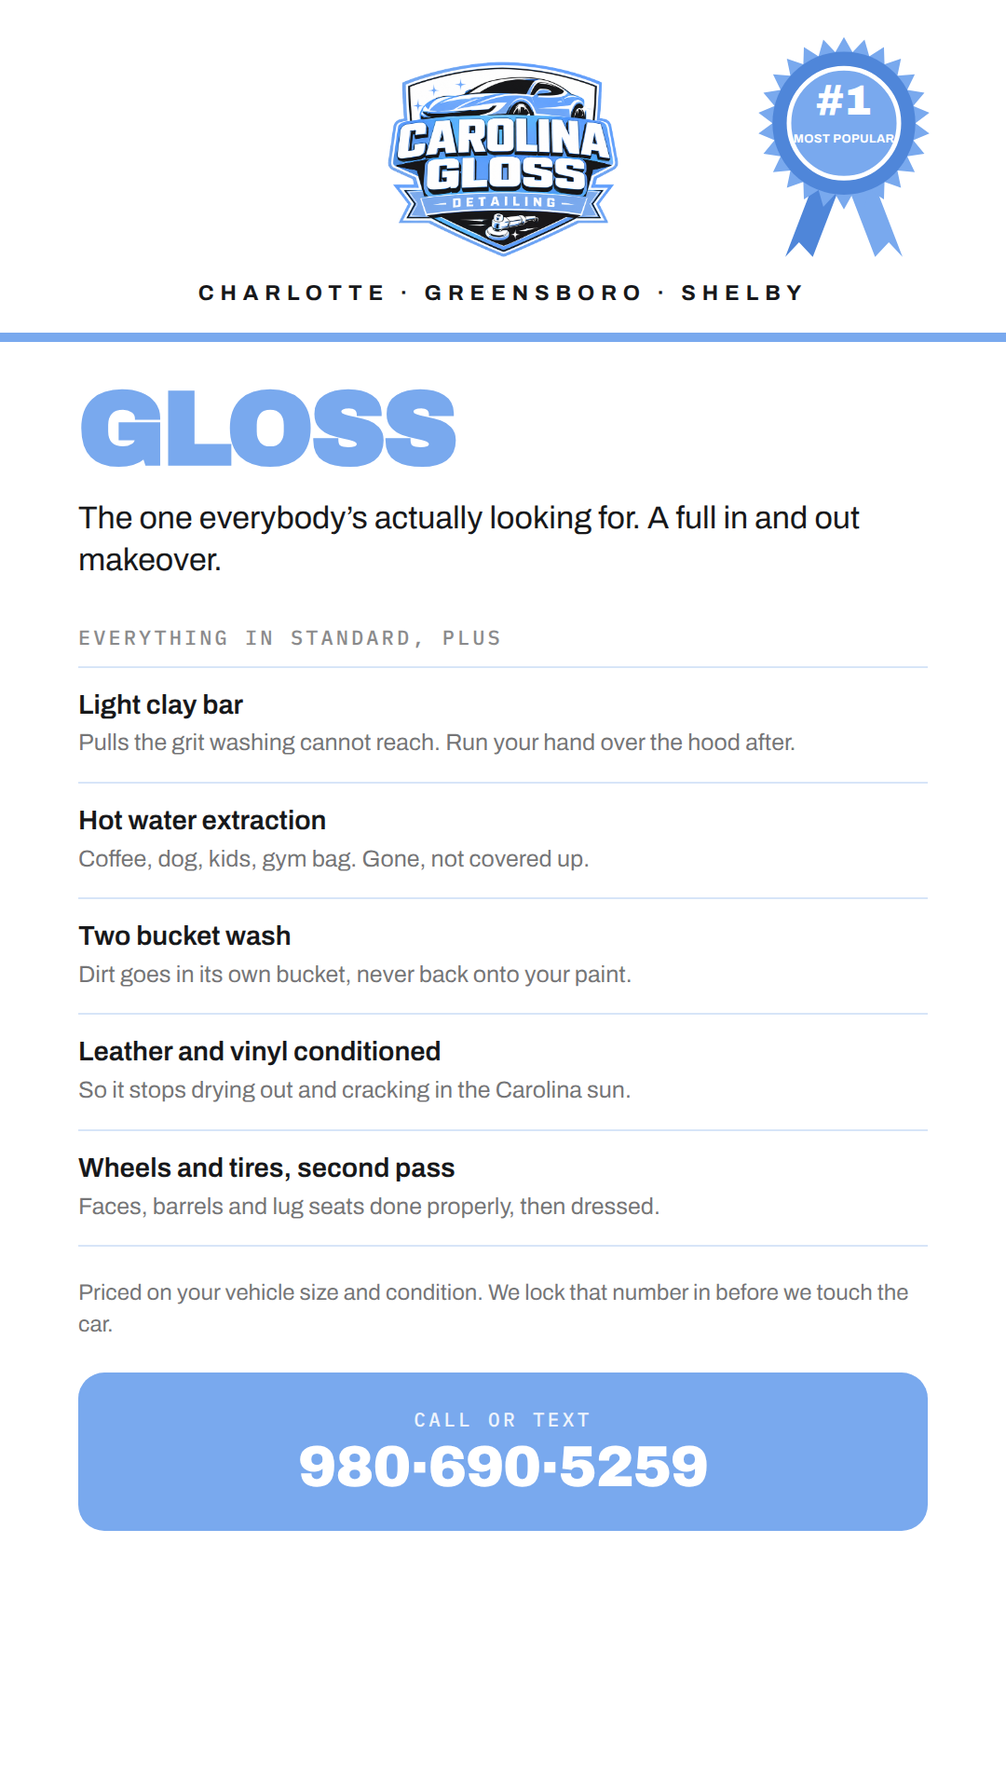
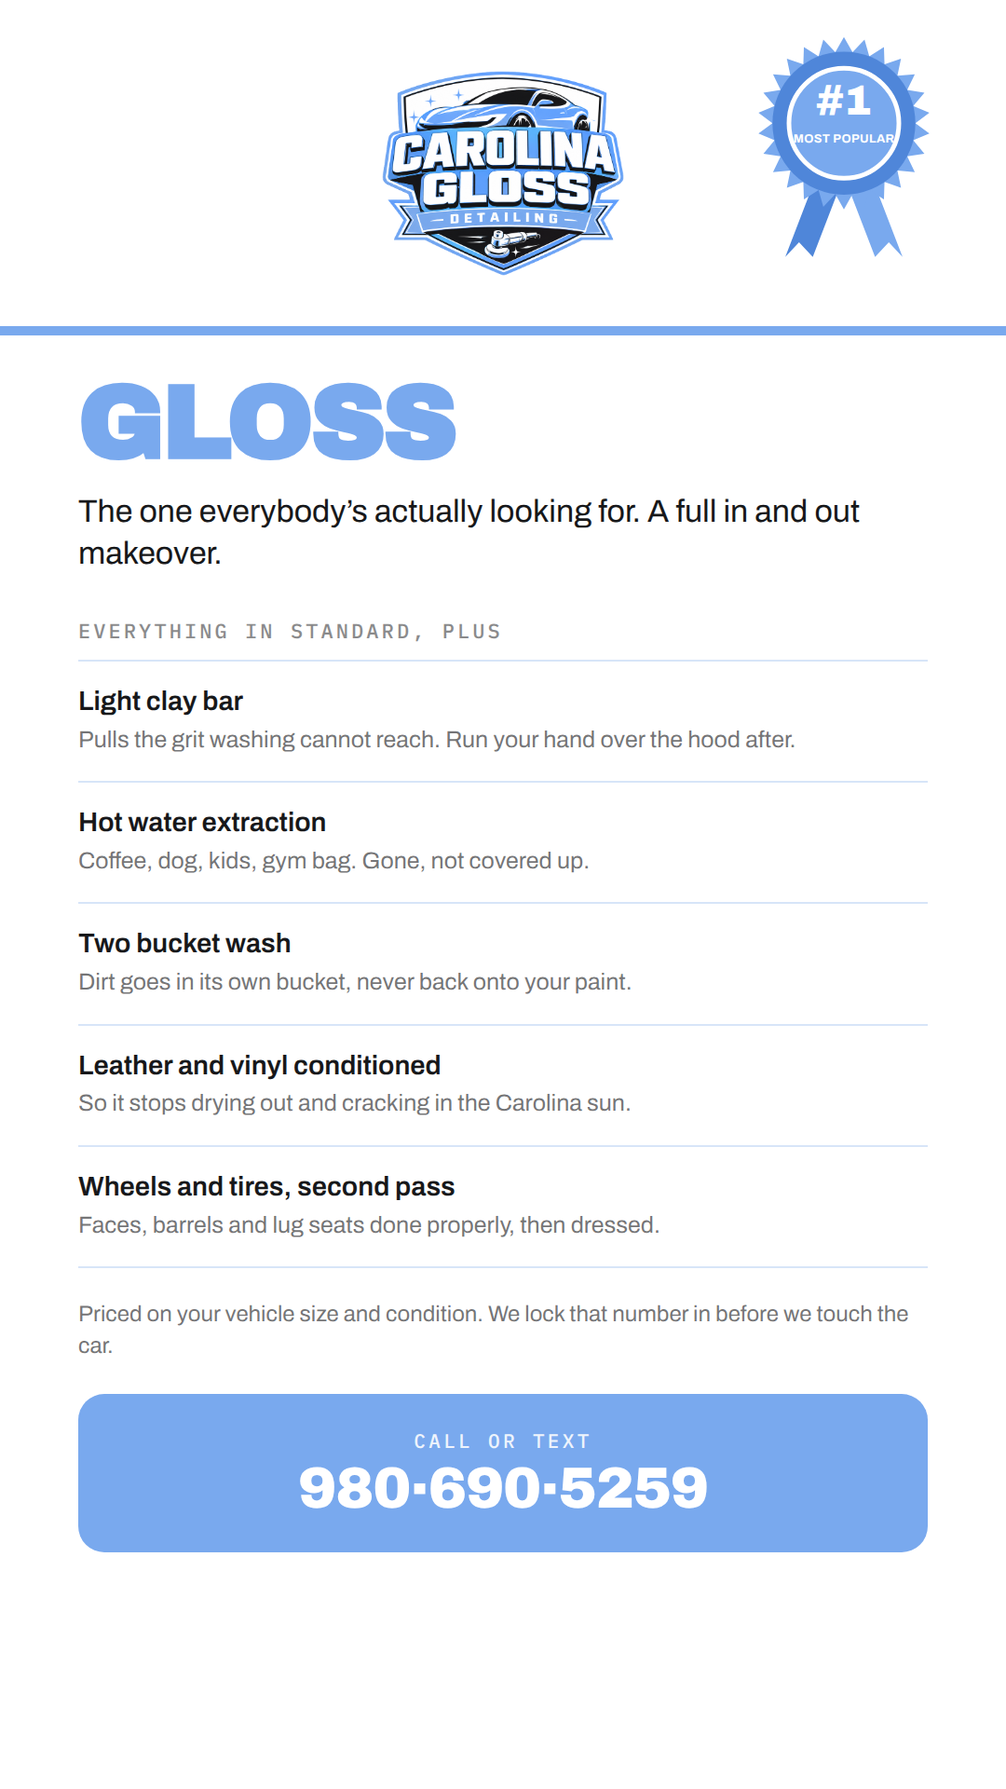
Drop the service area line from the header
Service area is getting its own highlight, so repeating the three cities on
every package frame is redundant. Header is now just the crest and the blue
bar, with the logo slightly larger and the row padding opened up to take back
the freed space.

Claude-Session: https://claude.ai/code/session_016b3V5EjCTmSZMCSHy3XdSF

Changed region(s): [[0.0, 0.0312, 1.0, 0.875]]

diff --git a/design/story-highlights/Story Highlights - Services.dc.html b/design/story-highlights/Story Highlights - Services.dc.html
@@ -25,16 +25,15 @@
       <div style="font:500 30px 'IBM Plex Mono',monospace;color:#8A95A2;letter-spacing:0.04em;">01 Standard</div>
     </sc-if>
     <section data-screen-label="01 Standard" style="width:1080px;height:1920px;flex:0 0 auto;position:relative;overflow:hidden;background:#FFFFFF;display:flex;flex-direction:column;">
-      <div style="flex:0 0 auto;padding:64px 84px 30px;display:flex;flex-direction:column;align-items:center;">
-        <img src="assets/logo.png" alt="Carolina Gloss Detailing" style="width:252px;height:auto;display:block;">
-        <div style="margin-top:24px;font:700 23px 'Archivo',sans-serif;letter-spacing:0.3em;color:#17181A;">CHARLOTTE · GREENSBORO · SHELBY</div>
+      <div style="flex:0 0 auto;padding:74px 84px 52px;display:flex;flex-direction:column;align-items:center;">
+        <img src="assets/logo.png" alt="Carolina Gloss Detailing" style="width:264px;height:auto;display:block;">
       </div>
       <div style="flex:0 0 auto;height:10px;background:#79A9EE;"></div>
       <div style="flex:1 1 auto;padding:44px 84px 0;box-sizing:border-box;display:flex;flex-direction:column;">
         <h1 style="margin:0;font-family:'Archivo Black',Helvetica,sans-serif;font-size:112px;line-height:0.9;letter-spacing:-0.03em;color:#79A9EE;text-transform:uppercase;">Standard</h1>
         <p style="margin:22px 0 0;font:400 34px/1.34 'Archivo',sans-serif;color:#17181A;min-height:92px;text-wrap:pretty;">Your everyday fresh. Start the day in a clean car.</p>
         <div style="margin-top:44px;font:500 22px 'IBM Plex Mono',monospace;letter-spacing:0.14em;color:#17181A;opacity:0.5;">WHAT YOU GET</div>
-        <div style="margin-top:16px;"><div style="padding:24px 0;border-top:2px solid #D7E5F8;"><div style="font:600 29px/1.2 'Archivo',sans-serif;color:#17181A;">Hand wash, top to bottom</div><div style="margin-top:6px;font:400 25px/1.34 'Archivo',sans-serif;color:rgba(23,24,26,0.62);">Two mitts and clean water. No brushes, no swirl marks.</div></div><div style="padding:24px 0;border-top:2px solid #D7E5F8;"><div style="font:600 29px/1.2 'Archivo',sans-serif;color:#17181A;">Wheels, tires and trim</div><div style="margin-top:6px;font:400 25px/1.34 'Archivo',sans-serif;color:rgba(23,24,26,0.62);">Brake dust out of the barrels, trim back to black.</div></div><div style="padding:24px 0;border-top:2px solid #D7E5F8;"><div style="font:600 29px/1.2 'Archivo',sans-serif;color:#17181A;">Full interior vacuum</div><div style="margin-top:6px;font:400 25px/1.34 'Archivo',sans-serif;color:rgba(23,24,26,0.62);">Seats, rails, under the mats, and the trunk.</div></div><div style="padding:24px 0;border-top:2px solid #D7E5F8;"><div style="font:600 29px/1.2 'Archivo',sans-serif;color:#17181A;">Glass, inside and out</div><div style="margin-top:6px;font:400 25px/1.34 'Archivo',sans-serif;color:rgba(23,24,26,0.62);">Streak free on both sides. You notice it driving at night.</div></div><div style="padding:24px 0;border-top:2px solid #D7E5F8;border-bottom:2px solid #D7E5F8;"><div style="font:600 29px/1.2 'Archivo',sans-serif;color:#17181A;">Vinyl sanitized, leather refreshed</div><div style="margin-top:6px;font:400 25px/1.34 'Archivo',sans-serif;color:rgba(23,24,26,0.62);">Dash, doors, console and every vent wiped down.</div></div></div>
+        <div style="margin-top:16px;"><div style="padding:27px 0;border-top:2px solid #D7E5F8;"><div style="font:600 29px/1.2 'Archivo',sans-serif;color:#17181A;">Hand wash, top to bottom</div><div style="margin-top:6px;font:400 25px/1.34 'Archivo',sans-serif;color:rgba(23,24,26,0.62);">Two mitts and clean water. No brushes, no swirl marks.</div></div><div style="padding:27px 0;border-top:2px solid #D7E5F8;"><div style="font:600 29px/1.2 'Archivo',sans-serif;color:#17181A;">Wheels, tires and trim</div><div style="margin-top:6px;font:400 25px/1.34 'Archivo',sans-serif;color:rgba(23,24,26,0.62);">Brake dust out of the barrels, trim back to black.</div></div><div style="padding:27px 0;border-top:2px solid #D7E5F8;"><div style="font:600 29px/1.2 'Archivo',sans-serif;color:#17181A;">Full interior vacuum</div><div style="margin-top:6px;font:400 25px/1.34 'Archivo',sans-serif;color:rgba(23,24,26,0.62);">Seats, rails, under the mats, and the trunk.</div></div><div style="padding:27px 0;border-top:2px solid #D7E5F8;"><div style="font:600 29px/1.2 'Archivo',sans-serif;color:#17181A;">Glass, inside and out</div><div style="margin-top:6px;font:400 25px/1.34 'Archivo',sans-serif;color:rgba(23,24,26,0.62);">Streak free on both sides. You notice it driving at night.</div></div><div style="padding:27px 0;border-top:2px solid #D7E5F8;border-bottom:2px solid #D7E5F8;"><div style="font:600 29px/1.2 'Archivo',sans-serif;color:#17181A;">Vinyl sanitized, leather refreshed</div><div style="margin-top:6px;font:400 25px/1.34 'Archivo',sans-serif;color:rgba(23,24,26,0.62);">Dash, doors, console and every vent wiped down.</div></div></div>
         <p style="margin:34px 0 0;font:400 24px/1.4 'Archivo',sans-serif;color:rgba(23,24,26,0.62);text-wrap:pretty;">Priced on your vehicle size and condition. We lock that number in before we touch the car.</p>
         <div style="margin-top:34px;background:#79A9EE;border-radius:28px;padding:36px 28px;display:flex;flex-direction:column;align-items:center;text-align:center;">
           <div style="font:500 21px 'IBM Plex Mono',monospace;letter-spacing:0.16em;color:#FFFFFF;opacity:0.88;">CALL OR TEXT</div>
@@ -49,16 +48,15 @@
       <div style="font:500 30px 'IBM Plex Mono',monospace;color:#8A95A2;letter-spacing:0.04em;">02 Gloss</div>
     </sc-if>
     <section data-screen-label="02 Gloss" style="width:1080px;height:1920px;flex:0 0 auto;position:relative;overflow:hidden;background:#FFFFFF;display:flex;flex-direction:column;"><svg style="position:absolute;top:26px;right:56px;width:236px;height:auto;display:block;" viewBox="0 0 240 262" aria-label="Number one most popular"><path d="M96 150 L126 150 L86 254 L71 238 L56 254 Z" fill="#4F86D9"/><path d="M144 150 L114 150 L154 254 L169 238 L184 254 Z" fill="#79A9EE"/><polygon points="120.0,14.0 129.4,30.6 142.5,16.7 147.7,35.1 163.7,24.8 164.3,43.8 182.3,37.6 178.4,56.3 197.4,54.6 189.1,71.8 207.9,74.7 195.7,89.3 213.3,96.7 198.0,108.0 213.3,119.3 195.7,126.7 207.9,141.3 189.1,144.2 197.4,161.4 178.4,159.7 182.3,178.4 164.3,172.2 163.7,191.2 147.7,180.9 142.5,199.3 129.4,185.4 120.0,202.0 110.6,185.4 97.5,199.3 92.3,180.9 76.3,191.2 75.7,172.2 57.7,178.4 61.6,159.7 42.6,161.4 50.9,144.2 32.1,141.3 44.3,126.7 26.7,119.3 42.0,108.0 26.7,96.7 44.3,89.3 32.1,74.7 50.9,71.8 42.6,54.6 61.6,56.3 57.7,37.6 75.7,43.8 76.3,24.8 92.3,35.1 97.5,16.7 110.6,30.6" fill="#79A9EE"/><circle cx="120" cy="108" r="78" fill="#4F86D9"/><circle cx="120" cy="108" r="60" fill="#79A9EE" stroke="#FFFFFF" stroke-width="5"/><text x="120" y="99" text-anchor="middle" fill="#FFFFFF" font-family="Archivo Black, Helvetica, sans-serif" font-size="46">#1</text><text x="120" y="129" text-anchor="middle" fill="#FFFFFF" font-family="Archivo, Helvetica, sans-serif" font-weight="700" font-size="13" letter-spacing="0.4">MOST POPULAR</text></svg>
-      <div style="flex:0 0 auto;padding:64px 84px 30px;display:flex;flex-direction:column;align-items:center;">
-        <img src="assets/logo.png" alt="Carolina Gloss Detailing" style="width:252px;height:auto;display:block;">
-        <div style="margin-top:24px;font:700 23px 'Archivo',sans-serif;letter-spacing:0.3em;color:#17181A;">CHARLOTTE · GREENSBORO · SHELBY</div>
+      <div style="flex:0 0 auto;padding:74px 84px 52px;display:flex;flex-direction:column;align-items:center;">
+        <img src="assets/logo.png" alt="Carolina Gloss Detailing" style="width:264px;height:auto;display:block;">
       </div>
       <div style="flex:0 0 auto;height:10px;background:#79A9EE;"></div>
       <div style="flex:1 1 auto;padding:44px 84px 0;box-sizing:border-box;display:flex;flex-direction:column;">
         <h1 style="margin:0;font-family:'Archivo Black',Helvetica,sans-serif;font-size:112px;line-height:0.9;letter-spacing:-0.03em;color:#79A9EE;text-transform:uppercase;">Gloss</h1>
         <p style="margin:22px 0 0;font:400 34px/1.34 'Archivo',sans-serif;color:#17181A;min-height:92px;text-wrap:pretty;">The one everybody’s actually looking for. A full in and out makeover.</p>
         <div style="margin-top:44px;font:500 22px 'IBM Plex Mono',monospace;letter-spacing:0.14em;color:#17181A;opacity:0.5;">EVERYTHING IN STANDARD, PLUS</div>
-        <div style="margin-top:16px;"><div style="padding:24px 0;border-top:2px solid #D7E5F8;"><div style="font:600 29px/1.2 'Archivo',sans-serif;color:#17181A;">Light clay bar</div><div style="margin-top:6px;font:400 25px/1.34 'Archivo',sans-serif;color:rgba(23,24,26,0.62);">Pulls the grit washing cannot reach. Run your hand over the hood after.</div></div><div style="padding:24px 0;border-top:2px solid #D7E5F8;"><div style="font:600 29px/1.2 'Archivo',sans-serif;color:#17181A;">Hot water extraction</div><div style="margin-top:6px;font:400 25px/1.34 'Archivo',sans-serif;color:rgba(23,24,26,0.62);">Coffee, dog, kids, gym bag. Gone, not covered up.</div></div><div style="padding:24px 0;border-top:2px solid #D7E5F8;"><div style="font:600 29px/1.2 'Archivo',sans-serif;color:#17181A;">Two bucket wash</div><div style="margin-top:6px;font:400 25px/1.34 'Archivo',sans-serif;color:rgba(23,24,26,0.62);">Dirt goes in its own bucket, never back onto your paint.</div></div><div style="padding:24px 0;border-top:2px solid #D7E5F8;"><div style="font:600 29px/1.2 'Archivo',sans-serif;color:#17181A;">Leather and vinyl conditioned</div><div style="margin-top:6px;font:400 25px/1.34 'Archivo',sans-serif;color:rgba(23,24,26,0.62);">So it stops drying out and cracking in the Carolina sun.</div></div><div style="padding:24px 0;border-top:2px solid #D7E5F8;border-bottom:2px solid #D7E5F8;"><div style="font:600 29px/1.2 'Archivo',sans-serif;color:#17181A;">Wheels and tires, second pass</div><div style="margin-top:6px;font:400 25px/1.34 'Archivo',sans-serif;color:rgba(23,24,26,0.62);">Faces, barrels and lug seats done properly, then dressed.</div></div></div>
+        <div style="margin-top:16px;"><div style="padding:27px 0;border-top:2px solid #D7E5F8;"><div style="font:600 29px/1.2 'Archivo',sans-serif;color:#17181A;">Light clay bar</div><div style="margin-top:6px;font:400 25px/1.34 'Archivo',sans-serif;color:rgba(23,24,26,0.62);">Pulls the grit washing cannot reach. Run your hand over the hood after.</div></div><div style="padding:27px 0;border-top:2px solid #D7E5F8;"><div style="font:600 29px/1.2 'Archivo',sans-serif;color:#17181A;">Hot water extraction</div><div style="margin-top:6px;font:400 25px/1.34 'Archivo',sans-serif;color:rgba(23,24,26,0.62);">Coffee, dog, kids, gym bag. Gone, not covered up.</div></div><div style="padding:27px 0;border-top:2px solid #D7E5F8;"><div style="font:600 29px/1.2 'Archivo',sans-serif;color:#17181A;">Two bucket wash</div><div style="margin-top:6px;font:400 25px/1.34 'Archivo',sans-serif;color:rgba(23,24,26,0.62);">Dirt goes in its own bucket, never back onto your paint.</div></div><div style="padding:27px 0;border-top:2px solid #D7E5F8;"><div style="font:600 29px/1.2 'Archivo',sans-serif;color:#17181A;">Leather and vinyl conditioned</div><div style="margin-top:6px;font:400 25px/1.34 'Archivo',sans-serif;color:rgba(23,24,26,0.62);">So it stops drying out and cracking in the Carolina sun.</div></div><div style="padding:27px 0;border-top:2px solid #D7E5F8;border-bottom:2px solid #D7E5F8;"><div style="font:600 29px/1.2 'Archivo',sans-serif;color:#17181A;">Wheels and tires, second pass</div><div style="margin-top:6px;font:400 25px/1.34 'Archivo',sans-serif;color:rgba(23,24,26,0.62);">Faces, barrels and lug seats done properly, then dressed.</div></div></div>
         <p style="margin:34px 0 0;font:400 24px/1.4 'Archivo',sans-serif;color:rgba(23,24,26,0.62);text-wrap:pretty;">Priced on your vehicle size and condition. We lock that number in before we touch the car.</p>
         <div style="margin-top:34px;background:#79A9EE;border-radius:28px;padding:36px 28px;display:flex;flex-direction:column;align-items:center;text-align:center;">
           <div style="font:500 21px 'IBM Plex Mono',monospace;letter-spacing:0.16em;color:#FFFFFF;opacity:0.88;">CALL OR TEXT</div>
@@ -73,16 +71,15 @@
       <div style="font:500 30px 'IBM Plex Mono',monospace;color:#8A95A2;letter-spacing:0.04em;">03 Deluxe</div>
     </sc-if>
     <section data-screen-label="03 Deluxe" style="width:1080px;height:1920px;flex:0 0 auto;position:relative;overflow:hidden;background:#FFFFFF;display:flex;flex-direction:column;">
-      <div style="flex:0 0 auto;padding:64px 84px 30px;display:flex;flex-direction:column;align-items:center;">
-        <img src="assets/logo.png" alt="Carolina Gloss Detailing" style="width:252px;height:auto;display:block;">
-        <div style="margin-top:24px;font:700 23px 'Archivo',sans-serif;letter-spacing:0.3em;color:#17181A;">CHARLOTTE · GREENSBORO · SHELBY</div>
+      <div style="flex:0 0 auto;padding:74px 84px 52px;display:flex;flex-direction:column;align-items:center;">
+        <img src="assets/logo.png" alt="Carolina Gloss Detailing" style="width:264px;height:auto;display:block;">
       </div>
       <div style="flex:0 0 auto;height:10px;background:#79A9EE;"></div>
       <div style="flex:1 1 auto;padding:44px 84px 0;box-sizing:border-box;display:flex;flex-direction:column;">
         <h1 style="margin:0;font-family:'Archivo Black',Helvetica,sans-serif;font-size:112px;line-height:0.9;letter-spacing:-0.03em;color:#79A9EE;text-transform:uppercase;">Deluxe</h1>
         <p style="margin:22px 0 0;font:400 34px/1.34 'Archivo',sans-serif;color:#17181A;min-height:92px;text-wrap:pretty;">The final boss. Fresh, sealed, basically a brand new car.</p>
         <div style="margin-top:44px;font:500 22px 'IBM Plex Mono',monospace;letter-spacing:0.14em;color:#17181A;opacity:0.5;">EVERYTHING IN GLOSS, PLUS</div>
-        <div style="margin-top:16px;"><div style="padding:24px 0;border-top:2px solid #D7E5F8;"><div style="font:600 29px/1.2 'Archivo',sans-serif;color:#17181A;">Full clay bar</div><div style="margin-top:6px;font:400 25px/1.34 'Archivo',sans-serif;color:rgba(23,24,26,0.62);">The whole body decontaminated panel by panel, not a spot treatment.</div></div><div style="padding:24px 0;border-top:2px solid #D7E5F8;"><div style="font:600 29px/1.2 'Archivo',sans-serif;color:#17181A;">Chemical strip wash</div><div style="margin-top:6px;font:400 25px/1.34 'Archivo',sans-serif;color:rgba(23,24,26,0.62);">Old wax and road film off so the new protection bonds.</div></div><div style="padding:24px 0;border-top:2px solid #D7E5F8;"><div style="font:600 29px/1.2 'Archivo',sans-serif;color:#17181A;">Ceramic soap</div><div style="margin-top:6px;font:400 25px/1.34 'Archivo',sans-serif;color:rgba(23,24,26,0.62);">Lays down a slick layer. Water sheets straight off your paint.</div></div><div style="padding:24px 0;border-top:2px solid #D7E5F8;"><div style="font:600 29px/1.2 'Archivo',sans-serif;color:#17181A;">Hand wax and spray sealant</div><div style="margin-top:6px;font:400 25px/1.34 'Archivo',sans-serif;color:rgba(23,24,26,0.62);">Months of protection against pollen, sun and road salt.</div></div><div style="padding:24px 0;border-top:2px solid #D7E5F8;border-bottom:2px solid #D7E5F8;"><div style="font:600 29px/1.2 'Archivo',sans-serif;color:#17181A;">Interior shampooed and conditioned</div><div style="margin-top:6px;font:400 25px/1.34 'Archivo',sans-serif;color:rgba(23,24,26,0.62);">Comes back looking like a lease return.</div></div></div>
+        <div style="margin-top:16px;"><div style="padding:27px 0;border-top:2px solid #D7E5F8;"><div style="font:600 29px/1.2 'Archivo',sans-serif;color:#17181A;">Full clay bar</div><div style="margin-top:6px;font:400 25px/1.34 'Archivo',sans-serif;color:rgba(23,24,26,0.62);">The whole body decontaminated panel by panel, not a spot treatment.</div></div><div style="padding:27px 0;border-top:2px solid #D7E5F8;"><div style="font:600 29px/1.2 'Archivo',sans-serif;color:#17181A;">Chemical strip wash</div><div style="margin-top:6px;font:400 25px/1.34 'Archivo',sans-serif;color:rgba(23,24,26,0.62);">Old wax and road film off so the new protection bonds.</div></div><div style="padding:27px 0;border-top:2px solid #D7E5F8;"><div style="font:600 29px/1.2 'Archivo',sans-serif;color:#17181A;">Ceramic soap</div><div style="margin-top:6px;font:400 25px/1.34 'Archivo',sans-serif;color:rgba(23,24,26,0.62);">Lays down a slick layer. Water sheets straight off your paint.</div></div><div style="padding:27px 0;border-top:2px solid #D7E5F8;"><div style="font:600 29px/1.2 'Archivo',sans-serif;color:#17181A;">Hand wax and spray sealant</div><div style="margin-top:6px;font:400 25px/1.34 'Archivo',sans-serif;color:rgba(23,24,26,0.62);">Months of protection against pollen, sun and road salt.</div></div><div style="padding:27px 0;border-top:2px solid #D7E5F8;border-bottom:2px solid #D7E5F8;"><div style="font:600 29px/1.2 'Archivo',sans-serif;color:#17181A;">Interior shampooed and conditioned</div><div style="margin-top:6px;font:400 25px/1.34 'Archivo',sans-serif;color:rgba(23,24,26,0.62);">Comes back looking like a lease return.</div></div></div>
         <p style="margin:34px 0 0;font:400 24px/1.4 'Archivo',sans-serif;color:rgba(23,24,26,0.62);text-wrap:pretty;">Priced on your vehicle size and condition. We lock that number in before we touch the car.</p>
         <div style="margin-top:34px;background:#79A9EE;border-radius:28px;padding:36px 28px;display:flex;flex-direction:column;align-items:center;text-align:center;">
           <div style="font:500 21px 'IBM Plex Mono',monospace;letter-spacing:0.16em;color:#FFFFFF;opacity:0.88;">CALL OR TEXT</div>

diff --git a/design/story-highlights/build.py b/design/story-highlights/build.py
@@ -89,7 +89,7 @@ def font_faces():
 def row_html(title, desc, last):
     edge = "border-bottom:2px solid %s;" % RULE if last else ""
     return (
-        '<div style="padding:24px 0;border-top:2px solid {rule};{edge}">'
+        '<div style="padding:27px 0;border-top:2px solid {rule};{edge}">'
         '<div style="font:600 29px/1.2 Archivo,sans-serif;color:{ink};">{t}</div>'
         '<div style="margin-top:6px;font:400 25px/1.34 Archivo,sans-serif;color:{muted};">{d}</div>'
         '</div>'
@@ -110,11 +110,9 @@ body{{width:1080px;height:1920px;overflow:hidden;background:#fff;
 .frame{{width:1080px;height:1920px;display:flex;flex-direction:column;background:#fff;
  position:relative;overflow:hidden;}}
 .rosette{{position:absolute;top:26px;right:56px;width:236px;height:auto;display:block;}}
-.head{{flex:0 0 auto;padding:64px 84px 30px;display:flex;flex-direction:column;
+.head{{flex:0 0 auto;padding:74px 84px 52px;display:flex;flex-direction:column;
  align-items:center;}}
-.head img{{width:252px;height:auto;display:block;}}
-.head .cities{{margin-top:24px;font:700 23px Archivo,sans-serif;
- letter-spacing:0.3em;color:{ink};}}
+.head img{{width:264px;height:auto;display:block;}}
 .bar{{flex:0 0 auto;height:10px;background:{blue};}}
 .body{{flex:1 1 auto;padding:44px 84px 0;display:flex;flex-direction:column;}}
 h1{{margin:0;font-family:'Archivo Black',Helvetica,sans-serif;font-size:112px;
@@ -131,8 +129,7 @@ h1{{margin:0;font-family:'Archivo Black',Helvetica,sans-serif;font-size:112px;
 .cta .num{{margin-top:8px;font-family:'Archivo Black',Helvetica,sans-serif;font-size:62px;
  line-height:1;letter-spacing:-0.02em;color:#FFFFFF;white-space:nowrap;}}
 </style></head><body><div class="frame">{ribbon}
-<div class="head"><img src="{logo}" alt="Carolina Gloss Detailing">
-<div class="cities">{cities}</div></div>
+<div class="head"><img src="{logo}" alt="Carolina Gloss Detailing"></div>
 <div class="bar"></div>
 <div class="body">
 <h1>{title}</h1>
@@ -143,7 +140,7 @@ h1{{margin:0;font-family:'Archivo Black',Helvetica,sans-serif;font-size:112px;
 <div class="cta"><div class="lbl">CALL OR TEXT</div><div class="num">{phone}</div></div>
 </div></div></body></html>""".format(
         faces=faces, ink=INK, blue=BLUE, tint=TINT, muted=MUTED,
-        logo=logo_uri, cities=CITIES, ribbon=ribbon,
+        logo=logo_uri, ribbon=ribbon,
         title=pkg["title"], sub=pkg["sub"], plus=pkg["plus"], rows=rows,
         price=PRICE_LINE, phone=PHONE)
 
@@ -206,7 +203,7 @@ def canvas_section(pkg, idx):
     for i, (t, d) in enumerate(pkg["rows"]):
         edge = "border-bottom:2px solid %s;" % RULE if i == len(pkg["rows"]) - 1 else ""
         rows.append(
-            '<div style="padding:24px 0;border-top:2px solid %s;%s">'
+            '<div style="padding:27px 0;border-top:2px solid %s;%s">'
             '<div style="font:600 29px/1.2 \'Archivo\',sans-serif;color:%s;">%s</div>'
             '<div style="margin-top:6px;font:400 25px/1.34 \'Archivo\',sans-serif;color:%s;">%s</div>'
             '</div>' % (RULE, edge, INK, t, MUTED, d))
@@ -216,9 +213,8 @@ def canvas_section(pkg, idx):
       <div style="font:500 30px 'IBM Plex Mono',monospace;color:#8A95A2;letter-spacing:0.04em;">{label}</div>
     </sc-if>
     <section data-screen-label="{label}" style="width:1080px;height:1920px;flex:0 0 auto;position:relative;overflow:hidden;background:#FFFFFF;display:flex;flex-direction:column;">{ribbon}
-      <div style="flex:0 0 auto;padding:64px 84px 30px;display:flex;flex-direction:column;align-items:center;">
-        <img src="assets/logo.png" alt="Carolina Gloss Detailing" style="width:252px;height:auto;display:block;">
-        <div style="margin-top:24px;font:700 23px 'Archivo',sans-serif;letter-spacing:0.3em;color:{ink};">{cities}</div>
+      <div style="flex:0 0 auto;padding:74px 84px 52px;display:flex;flex-direction:column;align-items:center;">
+        <img src="assets/logo.png" alt="Carolina Gloss Detailing" style="width:264px;height:auto;display:block;">
       </div>
       <div style="flex:0 0 auto;height:10px;background:{blue};"></div>
       <div style="flex:1 1 auto;padding:44px 84px 0;box-sizing:border-box;display:flex;flex-direction:column;">
@@ -235,7 +231,7 @@ def canvas_section(pkg, idx):
     </section>
   </div>
 """.format(label=pkg["slug"].replace("-", " ").title(), ink=INK, blue=BLUE,
-           tint=TINT, muted=MUTED, cities=CITIES,
+           tint=TINT, muted=MUTED,
            ribbon=ribbon, title=pkg["title"], sub=pkg["sub"], plus=pkg["plus"],
            rows="".join(rows), price=PRICE_LINE, phone=PHONE)
 

diff --git a/design/story-highlights/COPY.md b/design/story-highlights/COPY.md
@@ -8,7 +8,7 @@ Rendered files live in `out/`. Rebuild with `python3 build.py`
 
 ## Shared on all three
 
-- Header: crest logo on white, `CHARLOTTE · GREENSBORO · SHELBY`, Carolina blue bar
+- Header: crest logo on white, Carolina blue bar. Service area lives in its own highlight, not here
 - Price-lock line
 - CTA: `CALL OR TEXT` + `980·690·5259`. No hours and no website, so nothing on the image goes stale
 - Price line: "Priced on your vehicle size and condition. We lock that number in before we touch the car."
